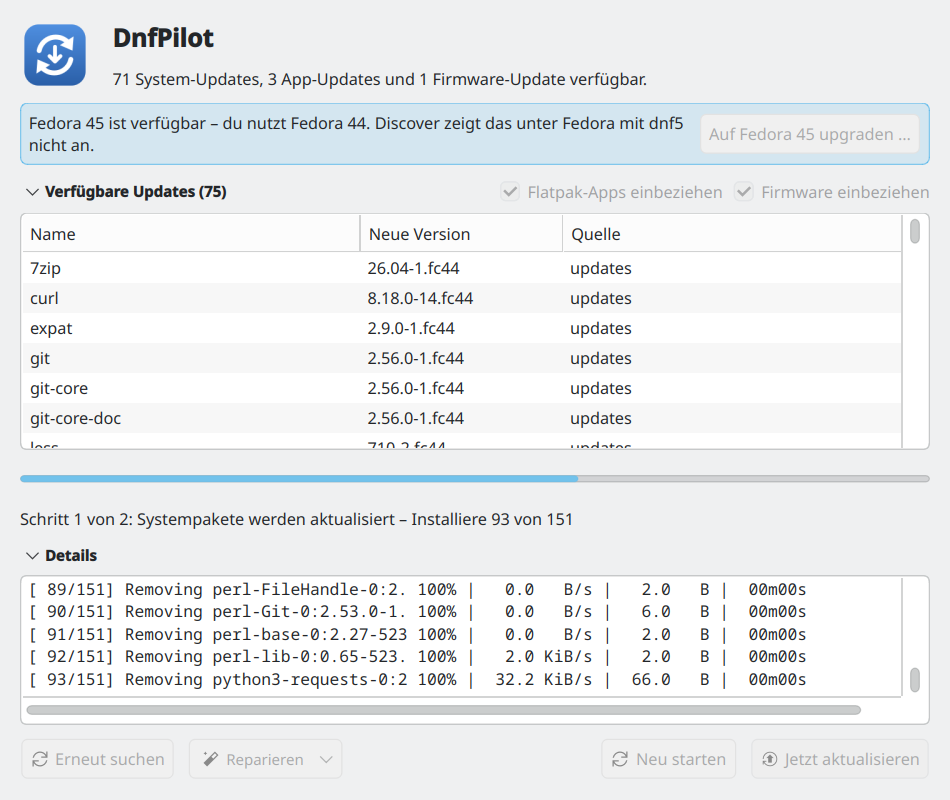
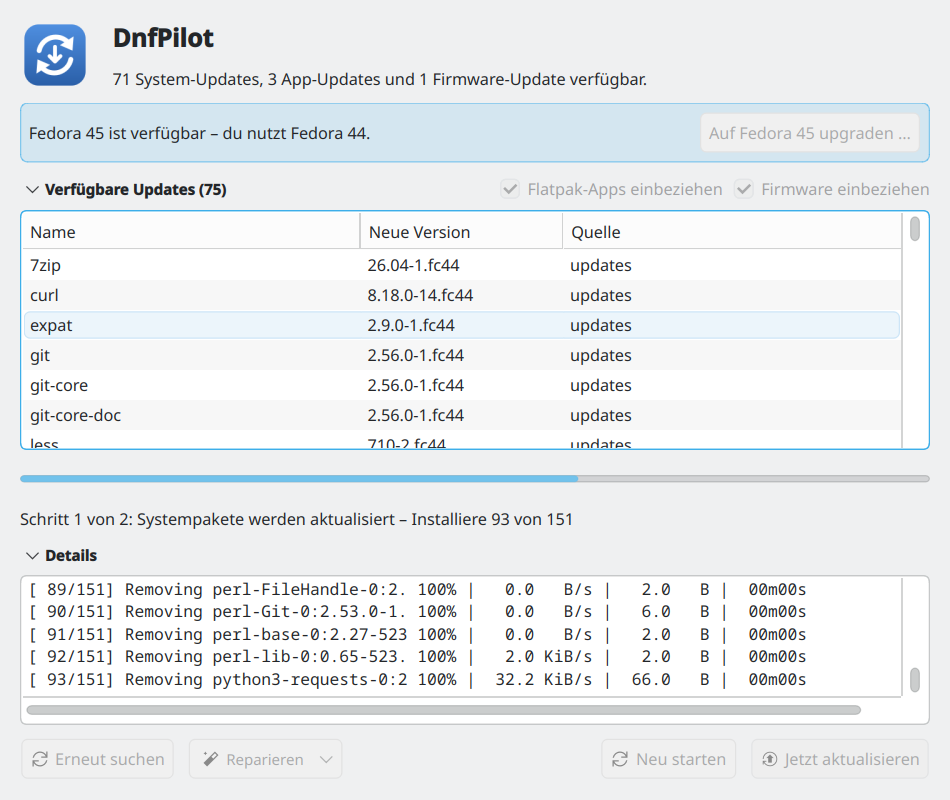
DnfSetup/DnfPilot-Beitrag: richtige Ursache, warum Discover Fedora 45 nicht anbietet

Changed region(s): [[0.0305, 0.125, 0.9768, 0.5625]]

diff --git a/_posts/2026-11-11-fedora-einrichten-und-aktuell-halten.md b/_posts/2026-11-11-fedora-einrichten-und-aktuell-halten.md
@@ -51,10 +51,12 @@ aufklappbaren Details und Neustart-Knopf. Das Menü **Reparieren** enthält die
 üblichen Rettungsgriffe, etwa ein hängendes Offline-Update von Discover
 abbrechen.
 
-Außerdem meldet DnfPilot neue Fedora-Versionen. Discover kann das unter
-Fedora mit dnf5 nicht: Das PackageKit-Backend kennt die Abfrage gar nicht.
-Fedora 45 ist seit dem 20. Oktober da, Discover meldete trotzdem „alles
-aktuell“.
+Außerdem meldet DnfPilot neue Fedora-Versionen, und zwar ab dem Tag der
+Veröffentlichung. Discover liest das aus den AppStream-Daten von Fedora, und
+dort stand Fedora 45 nach dem Release am 3. November noch über eine Woche als
+Entwicklerversion. Discover meldete deshalb „alles aktuell“. Die Korrektur ist
+als Update unterwegs
+([Bug 2568647](https://bugzilla.redhat.com/show_bug.cgi?id=2568647)).
 
 ## Herunterladen
 
